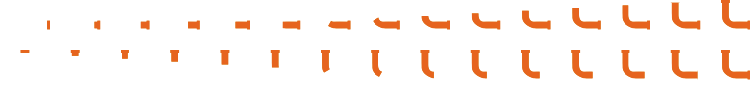
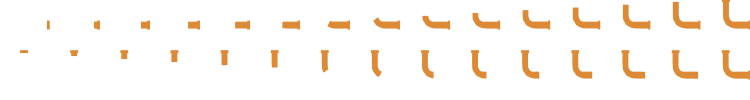
All pipe animation working, level loading working

diff --git a/levels.js b/levels.js
@@ -1,11 +1,61 @@
 var level1 = {
-	drinks: [null, null, "wine", null, "beer"],
+	drinks: [null, null, "beer", null, null],
 	pipes: [
-		[["rect", 1], ["curve", 1], ["rect", 1], ["curve", 1], ["rect", 1], ["curve", 1], ["rect", 1], ["curve", 1], ["rect", 1], ["curve", 1], ["curve", 1]],
-		[["rect", 1], ["curve", 1], ["rect", 1], ["curve", 1], ["rect", 1], ["curve", 1], ["rect", 1], ["curve", 1], ["rect", 1], ["curve", 1], ["curve", 1]],
-		[["rect", 1], ["curve", 1], ["rect", 1], ["curve", 1], ["rect", 1], ["curve", 1], ["rect", 1], ["curve", 1], ["rect", 1], ["curve", 1], ["curve", 1]],
-		[["rect", 1], ["curve", 1], ["rect", 1], ["curve", 1], ["rect", 1], ["curve", 1], ["rect", 1], ["curve", 1], ["rect", 1], ["curve", 1], ["curve", 1]],
-		[["rect", 1], ["curve", 1], ["rect", 1], ["curve", 1], ["rect", 1], ["curve", 1], ["rect", 1], ["curve", 1], ["rect", 1], ["curve", 0], ["curve", 1]]
-	],
+		[["curve", 2], ["rect", 0], ["curve", 2], ["rect", 1], ["curve", 0], ["rect", 0], ["curve", 0], ["rect", 0], ["curve", 3], ["curve", 0], ["curve", 2]],
+		[["rect", 0], ["curve", 1], ["cross", 0], ["curve", 2], ["rect", 0], ["cross", 0], ["rect", 0], ["rect", 1], ["bridge", 0], ["curve", 3], ["bridge", 0]],
+		[["rect", 1], ["curve", 1], ["bridge", 0], ["curve", 3], ["rect", 0], ["curve", 0], ["curve", 2], ["rect", 1], ["rect", 0], ["segundo", 0], ["rect", 0]],
+		[["rect", 0], ["curve", 3], ["curve", 2], ["segundo", 0], ["curve", 1], ["segundo", 0], ["rect", 0], ["bridge", 0], ["rect", 0], ["rect", 0], ["curve", 1]],
+		[["rect", 0], ["rect", 0], ["rect", 1], ["rect", 0], ["curve", 3], ["curve", 1], ["rect", 0], ["curve", 1], ["rect", 0], ["curve", 1], ["curve", 1]]
+	], 
 	receiver: [null, null, null, "beer", null, null, null, null, null, null, null]
 };
+
+var level2 = {
+	drinks: [null, "beer", null, "wine", null],
+	pipes: [
+		[["rect", 0], ["rect", 0], ["segundo", 1], ["rect", 0], ["curve", 1], ["rect", 0], ["curve", 0], ["rect", 0], ["bridge", 0], ["rect", 0], ["rect", 1]],
+		[["rect", 0], ["curve", 1], ["rect", 0], ["rect", 0], ["curve", 3], ["rect", 0], ["rect", 0], ["rect", 1], ["segundo", 1], ["rect", 0], ["bridge", 0]],
+		[["bridge", 0], ["rect", 0], ["curve", 2], ["curve", 1], ["rect", 0], ["curve", 1], ["rect", 1], ["curve", 0], ["rect", 0], ["rect", 1], ["rect", 0]],
+		[["rect", 1], ["rect", 0], ["curve", 1], ["rect", 0], ["curve", 1], ["rect", 0], ["rect", 0], ["segundo", 1], ["rect", 0], ["rect", 0], ["segundo", 1]],
+		[["rect", 0], ["curve", 1], ["curve", 0], ["segundo", 1], ["rect", 0], ["bridge", 0], ["segundo", 1], ["curve", 2], ["curve", 1], ["rect", 0], ["rect", 0]]
+	],
+	receiver: [null, "wine", null, null, null, null, null, null, null, "beer", null]
+};
+
+var level3 = {
+	drinks: [null, "wine", null, null, null],
+	pipes: [
+		[["curve", 2], ["curve", 1], ["curve", 2], ["curve", 2], ["curve", 0], ["rect", 0], ["rect", 0], ["curve", 1], ["segundo", 0], ["curve", 0], ["curve", 2]],
+		[["rect", 0], ["cross", 0], ["curve", 3], ["curve", 1], ["curve", 0], ["rect", 0], ["segundo", 0], ["curve", 3], ["segundo", 1], ["curve", 2], ["bridge", 0]],
+		[["bridge", 0], ["segundo", 0], ["rect", 1], ["curve", 1], ["rect", 0], ["curve", 1], ["curve", 2], ["rect", 1], ["cross", 0], ["segundo", 0], ["rect", 0]],
+		[["rect", 1], ["curve", 3], ["curve", 2], ["segundo", 0], ["bridge", 0], ["curve", 2], ["rect", 1], ["curve", 1], ["rect", 0], ["rect", 0], ["curve", 1]],
+		[["curve", 0], ["curve", 0], ["curve", 1], ["rect", 0], ["curve", 3], ["curve", 1], ["segundo", 1], ["curve", 1], ["curve", 0], ["curve", 3], ["curve", 1]]
+	], 
+	receiver: ["wine", null, null, "wine", null, null, null, "wine", null, null, null]
+};
+
+// var level9 = {
+// 	drinks: ["liquor", "wine", null, "soda", "tequila"],
+// 	pipes: [
+// 		[["rect", 0], ["rect", 1], ["curve", 2], ["curve", 2], ["curve", 3], ["mixer", 0], ["cross", 0], ["rect", 0], ["rect", 1], ["rect", 0], ["segundo", 1]],
+// 		[["rect", 0], ["cross", 0], ["bridge", 0], ["curve", 1], ["mixer", 0], ["curve", 3], ["rect", 1], ["segundo", 0], ["curve", 1], ["curve", 1], ["rect", 0]],
+// 		[["rect", 1], ["rect", 0], ["rect", 0], ["rect", 0], ["rect", 0], ["curve", 3], ["curve", 1], ["curve", 0], ["bridge", 0], ["rect", 0], ["curve", 2]],
+// 		[["rect", 0], ["curve", 0], ["curve", 0], ["cross", 0], ["segundo", 0], ["curve", 0], ["mixer", 0], ["rect", 0], ["rect", 0], ["rect", 0], ["rect", 0]],
+// 		[["segundo", 0], ["rect", 0], ["segundo", 0], ["rect", 0], ["segundo", 0], ["curve", 1], ["segundo", 0], ["bridge", 0], ["rect", 0], ["rect", 0], ["curve", 1]]
+// 	],
+// 	receiver: ["hybrid", "hybrid", "splondee", null, "hybrid", null, "splondee", null, null, "splondee", null]
+// };
+
+var level9 = {
+	drinks: ["liquor", "wine", null, "soda", "tequila"],
+	pipes: [
+		[["rect", 0], ["curve", 1], ["rect", 0], ["bridge", 0], ["rect", 0], ["mixer", 0], ["rect", 0], ["cross", 0], ["rect", 0], ["rect", 1], ["rect", 0]],
+		[["segundo", 0], ["curve", 1], ["rect", 0], ["curve", 1], ["mixer", 0], ["bridge", 0], ["rect", 0], ["segundo", 0], ["rect", 0], ["rect", 1], ["curve", 0]],
+		[["curve", 0], ["curve", 2], ["rect", 0], ["rect", 0], ["segundo", 0], ["rect", 1], ["rect", 0], ["curve", 2], ["rect", 0], ["curve", 0], ["rect", 0]],
+		[["curve", 1], ["rect", 1], ["segundo", 0], ["rect", 0], ["rect", 0], ["segundo", 1], ["mixer", 0], ["segundo", 0], ["segundo", 0], ["curve", 0], ["curve", 1]],
+		[["curve", 2], ["cross", 0], ["bridge", 0], ["rect", 0], ["curve", 3], ["curve", 1], ["cross", 0], ["rect", 0], ["rect", 0], ["curve", 3], ["curve", 3]]
+	],
+	receiver: ["hybrid", "hybrid", "splondee", null, "hybrid", null, "splondee", null, null, "splondee", null]
+};
+
+

diff --git a/Map.js b/Map.js
@@ -1,12 +1,15 @@
-function Map(){
-	this.time = 25*60;
+function Map(level){
+	this.time = 25*60*100;
 	this.pipes = [];
 	this.drinks = [];
 	this.cocktails = [];
 	this.selectedPipe = null;
 	this.open = false;
 
-	this.generate();
+	if(level != null)
+		this.load(level);
+	else
+		this.generate();
 	this.setContainers();
 
 	this.update = function(){
@@ -111,13 +114,13 @@ Map.prototype.generate = function(){
 	}
 }
 
-Map.prototype.load = function(){
+Map.prototype.load = function(level){
 		for(var i = 0; i < 5; i++){
 			
-			if(level1.drinks[i] == null)
+			if(level.drinks[i] == null)
 				continue;
 
-			var drink = new Drink(i, level1.drinks[i]);
+			var drink = new Drink(i, level.drinks[i]);
 			this.drinks.push(drink);
 		}
 
@@ -125,35 +128,45 @@ Map.prototype.load = function(){
 			var line = [];
 			for(var j = 0; j < 11; j++){
 
-				var pipe = new Pipe({x: j, y: i}, level1.pipes[i][j][0], level1.pipes[i][j][1]);
+				var pipe = new Pipe({x: j, y: i}, level.pipes[i][j][0], level.pipes[i][j][1]);
 				line.push(pipe);
 			}
 			this.pipes.push(line);
 		}
 
 		for(var i = 0; i < 11; i++){
-			if(level1.receiver[i] == null){
+			if(level.receiver[i] == null){
 				this.cocktails.push(null);
 				continue;
 			}
 
-			var cocktail = new Receiver(i, level1.receiver[i]);
+			var cocktail = new Receiver(i, level.receiver[i]);
 			this.cocktails.push(cocktail);
 		}
-	}
+}
 
 Map.prototype.setContainers = function(){
-	this.matrixStage = new createjs.Container();	
+	this.container = new createjs.Container();
+	
+	this.background = new createjs.Bitmap("res/img/backgrounds/gameplay.png");
+	this.container.addChild(this.background);
+
+	this.matrixStage = new createjs.Container();
+	this.container.addChild(this.matrixStage);
 	this.matrixStage.x = 125;
 	this.matrixStage.y = 150;
 
 	this.drinkStage = new createjs.Container();
+	this.container.addChild(this.drinkStage);
 	this.drinkStage.x = 150;
 	this.drinkStage.y = 25;
 
 	this.cocktailStage = new createjs.Container();
+	this.container.addChild(this.cocktailStage);
 	this.cocktailStage.x = 125;
 	this.cocktailStage.y = 400;
+
+
 
 	for(var i = 0; i < this.drinks.length; i++){
 		if(this.drinks[i] != null)
@@ -171,5 +184,4 @@ Map.prototype.setContainers = function(){
 		if(this.cocktails[i] != null)
 			this.cocktailStage.addChild(this.cocktails[i].container);
 	}
-
 }

diff --git a/definitions.js b/definitions.js
@@ -27,7 +27,7 @@ var flows = {
 	},
 	cross: {
 		paths: function(rot){
-			return ["left", "right", "top", "down"];
+			return ["top", "right", "down", "left"];
 		}
 	},
 	mixer: {
@@ -127,7 +127,7 @@ var drinks = {
 	},
 	soda: {
 		bottle: "soda",
-		anim: "tequila_soda",
+		anim: "soda",
 		glass: null,
 		join: function(a){
 			switch(a){
@@ -139,6 +139,8 @@ var drinks = {
 					return "liquor_soda";
 				case "tequila":
 					return "tequila_soda";
+				case "liquor_tequila":
+					return "splondee";
 				default:
 					return "nothing";
 			}
@@ -156,6 +158,8 @@ var drinks = {
 					return "liquor_soda";
 				case "tequila":
 					return "liquor_tequila";
+				case "tequila_soda":
+					return "splondee";
 				default:
 					return "nothing";
 			}
@@ -163,7 +167,7 @@ var drinks = {
 	},
 	tequila: {
 		bottle: "tequila",
-		anim: "tequila_soda",
+		anim: "tequila",
 		glass: {
 			src: "shot",
 			frames: 9
@@ -178,6 +182,8 @@ var drinks = {
 					return "tequila_soda";
 				case "liquor":
 					return "liquor_tequila";
+				case "liquor_soda":
+					return "splondee";
 				default:
 					return "nothing";
 			}
@@ -265,7 +271,7 @@ var drinks = {
 	},
 	tequila_soda: {
 		bottle: null,
-		anim: "tequila_soda",
+		anim: "soda",
 		glass: null,
 		join: function(a){
 			switch(a){
@@ -280,7 +286,7 @@ var drinks = {
 	},
 	splondee: {
 		bottle: null,
-		anim: "liquor",
+		anim: "splondee",
 		glass: {
 			src: "splondee",
 			frames: 18
@@ -296,7 +302,7 @@ var drinks = {
 	},
 	nothing: {
 		bottle: null,
-		anim: "wine",
+		anim: "nothing",
 		glass: null,
 		join: function(a){
 			return "nothing";

diff --git a/Flow.js b/Flow.js
@@ -9,6 +9,14 @@ function Flow(type, rot){
 
 	this.exits = flows[type].paths(rot);
 
+	this.finalState = 15;
+	if(this.type == "mixer"){
+		if(rot == 2)
+			this.finalState = 8;
+		else
+			this.finalState = 7;
+	}
+
 	this.start = function(from, liq){
 		if(this.reached) return false;
 
@@ -28,6 +36,10 @@ function Flow(type, rot){
 			this.loadSprite(liq, "normal");
 		else if(i == 1)
 			this.loadSprite(liq, "reversed");
+		else if(i == 2)
+			this.loadSprite(liq, "cross2");
+		else if(i == 3)
+			this.loadSprite(liq, "cross3");
 
 		this.liq = liq;
 		this.reached = true;
@@ -38,17 +50,21 @@ function Flow(type, rot){
 	this.update = function(){
 		if(this.reached && !this.ready){
 			this.state++;
-			if(this.state == 15)
+			if(this.state == this.finalState)
 				this.ready = true;
 		}
 	}
 }
 
 Flow.prototype.loadSprite = function(liq, anim){
+	var frames = 15;
+	if(this.type == "mixer")
+		frames = 7;
+
 	var data = {
 		images: ["res/img/pipeanimations/" + drinks[liq].anim + "/" + this.type + this.rot + ".png"],
 		frames: {width:50, height:50},
-		animations: {normal: [0, 13, "full"], reversed: [15, 29, "full"], full: 14}
+		animations: {normal: [0, frames - 1, "full"], reversed: [frames, frames*2 - 1, "full"], cross2: [frames*2, frames*3-1, "full"], cross3: [frames*3, frames*4-1, "full"], full: frames-1}
 	};
 
 	var spriteSheet = new createjs.SpriteSheet(data);

diff --git a/main.js b/main.js
@@ -1,4 +1,4 @@
-var stage, map;
+var stage, map, editor;
 init();
 
 function init(){
@@ -13,28 +13,20 @@ function init(){
 	//createjs.Sound.play(srcMusic, "none", 0, 0, -1, 0.3, 0);
  	//mainMenu();
 
-	loadLevel();
+	loadLevel(level9);
 }
 
 function update(){
-	if(map != null){
+	if(map != null)
 		map.update();
-	}
 	stage.update();
 }
 
-
-function loadLevel(){
+function loadLevel(level){
 	stage.removeAllChildren();
 
-	var background = new createjs.Bitmap("res/img/backgrounds/gameplay.png");
-	stage.addChild(background);
-
-	map = new Map();
-
-	stage.addChild(map.matrixStage);
-	stage.addChild(map.drinkStage);
-	stage.addChild(map.cocktailStage);
+	map = new Map(level);
+	stage.addChild(map.container);
 
 	loadMenu();
 }

diff --git a/Pipe.js b/Pipe.js
@@ -6,7 +6,7 @@ function Pipe(pos, t, rot){
 	this.mixer = false;
 	if(t == "mixer"){
 		this.mixer = true;
-		//this.locked = true;
+		this.locked = true;
 	}
 
 	this.cross = false;
